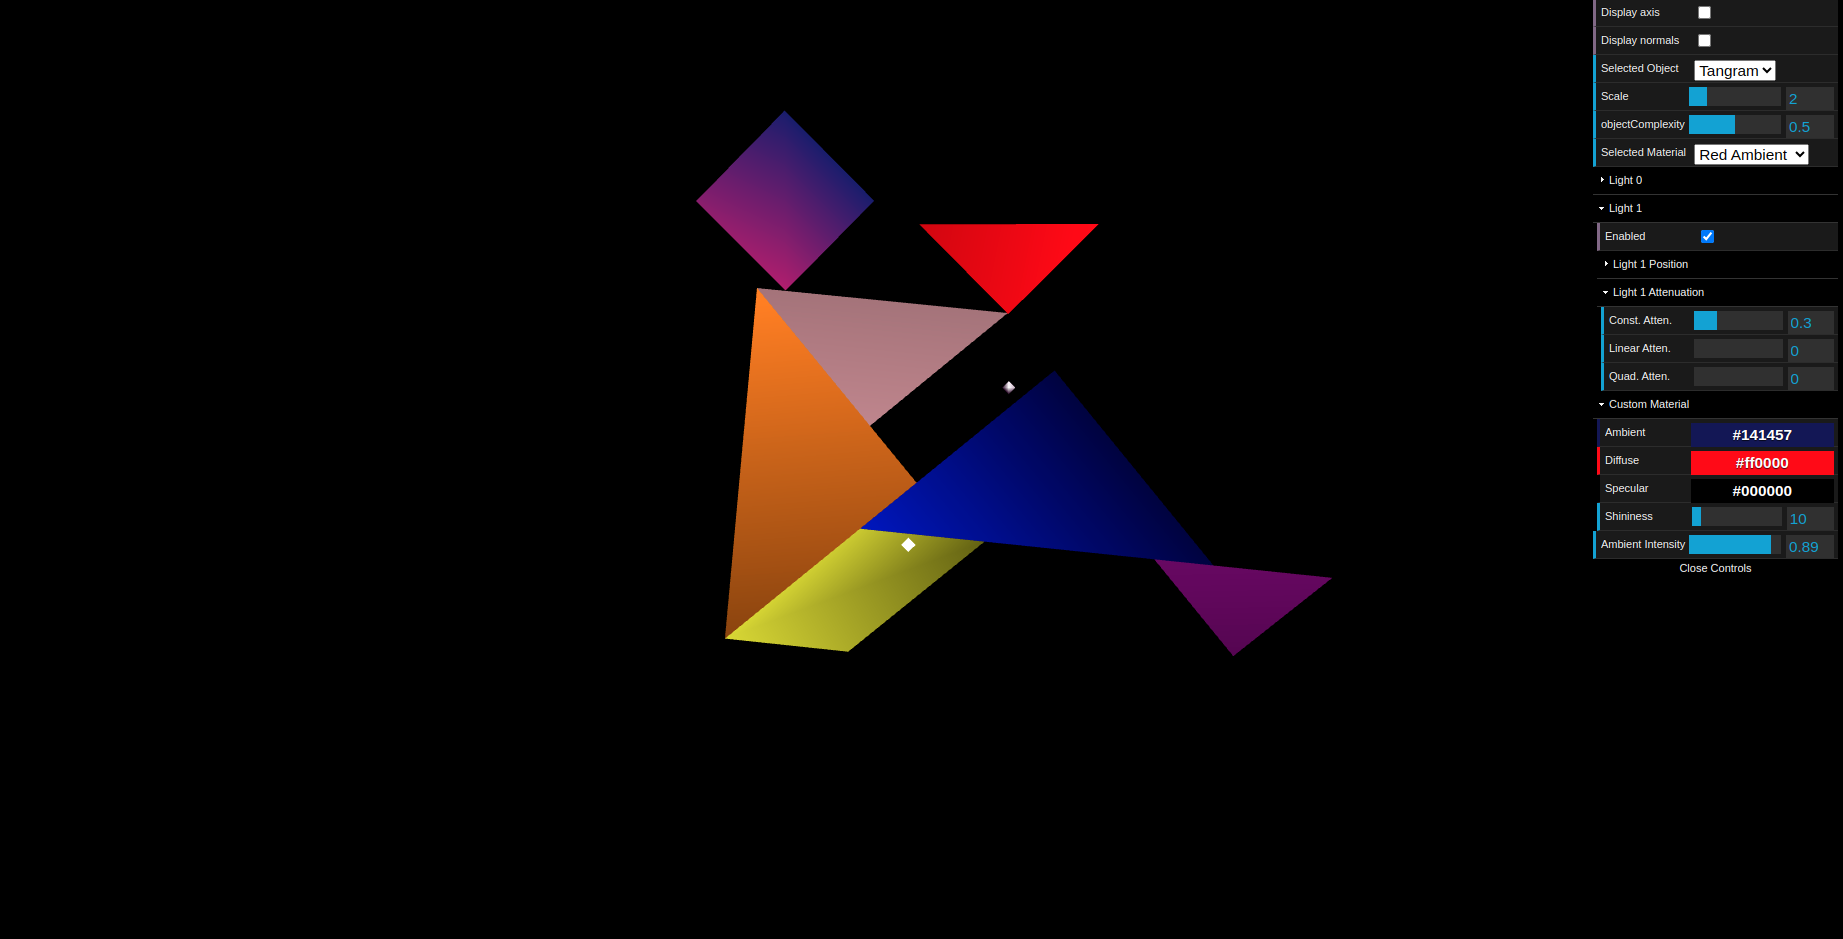
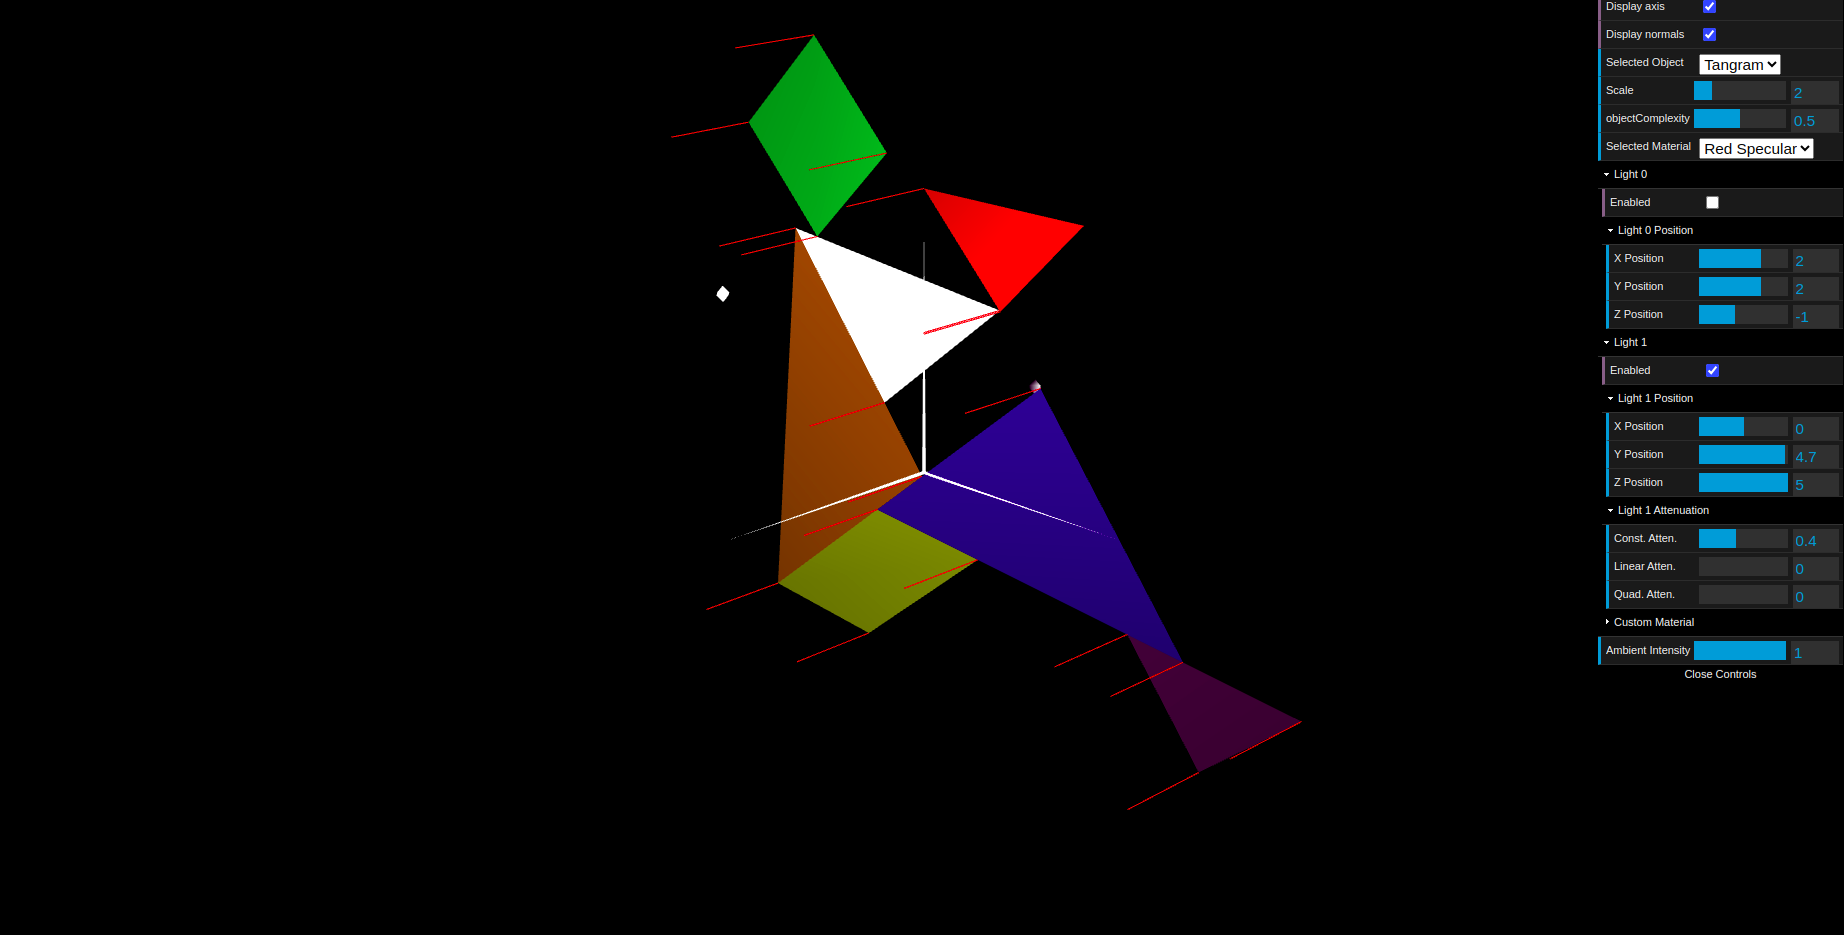
Correction in TP3: added normals to Tangram.

Changed region(s): [[0.3711, 0.031, 0.7113, 0.8374], [0.866, 0.0, 1.0, 0.7444]]

diff --git a/tp3/MyTangram.js b/tp3/MyTangram.js
@@ -81,7 +81,7 @@ export class MyTangram extends CGFobject {
             this.scene.pushMatrix();
             this.scene.multMatrix(translate);
             this.scene.customMaterial.apply();
-            // this.green.apply();
+            this.green.apply();
             this.diamond.display();
             this.scene.popMatrix();
 
@@ -133,5 +133,25 @@ export class MyTangram extends CGFobject {
             this.scene.popMatrix();
         }
         this.scene.popMatrix();
+    }
+
+    enableNormalViz() {
+        this.diamond.enableNormalViz();
+        this.parallelogram.enableNormalViz();
+        this.triangle.enableNormalViz();
+        this.triangleSmTop.enableNormalViz();
+        this.triangleSmBot.enableNormalViz();
+        this.triangleBigLft.enableNormalViz();
+        this.triangleBigRgt.enableNormalViz();
+    }
+
+    disableNormalViz() {
+        this.diamond.disableNormalViz();
+        this.parallelogram.disableNormalViz();
+        this.triangle.disableNormalViz();
+        this.triangleSmTop.disableNormalViz();
+        this.triangleSmBot.disableNormalViz();
+        this.triangleBigLft.disableNormalViz();
+        this.triangleBigRgt.disableNormalViz();
     }
 }

diff --git a/tp3/MyScene.js b/tp3/MyScene.js
@@ -196,6 +196,7 @@ export class MyScene extends CGFscene {
             Custom: 4,
         };
     }
+
     display() {
         // ---- BEGIN Background, camera and axis setup
         // Clear image and depth buffer everytime we update the scene
@@ -220,8 +221,7 @@ export class MyScene extends CGFscene {
         this.pushMatrix();
         this.scale(this.scaleFactor, this.scaleFactor, this.scaleFactor);
 
-        if (this.displayNormals)
-            this.objects[this.selectedObject].enableNormalViz();
+        if (this.displayNormals) this.objects[this.selectedObject].enableNormalViz();
         else this.objects[this.selectedObject].disableNormalViz();
 
         this.objects[this.selectedObject].display();

diff --git a/tp3/MyParallelogram.js b/tp3/MyParallelogram.js
@@ -27,6 +27,13 @@ export class MyParallelogram extends CGFobject {
             0, 3, 2
         ];
 
+        this.normals = [
+            0, 0, 1,
+            0, 0, 1,
+            0, 0, 1,
+            0, 0, 1
+        ];
+
         //The defined indices (and corresponding vertices)
         //will be read in groups of three to draw triangles
         this.primitiveType = this.scene.gl.TRIANGLES;

diff --git a/tp3/MyTriangleSmall.js b/tp3/MyTriangleSmall.js
@@ -23,6 +23,13 @@ export class MyTriangleSmall extends CGFobject {
             0, 1, 2
         ];
 
+        this.normals = [
+            0, 0, 1,
+            0, 0, 1,
+            0, 0, 1,
+            0, 0, 1
+        ];
+
         //The defined indices (and corresponding vertices)
         //will be read in groups of three to draw triangles
         this.primitiveType = this.scene.gl.TRIANGLES;

diff --git a/tp3/MyTriangleBig.js b/tp3/MyTriangleBig.js
@@ -23,6 +23,13 @@ export class MyTriangleBig extends CGFobject {
             0, 1, 2,
         ];
 
+        this.normals = [
+            0, 0, 1,
+            0, 0, 1,
+            0, 0, 1,
+            0, 0, 1
+        ];
+
         //The defined indices (and corresponding vertices)
         //will be read in groups of three to draw triangles
         this.primitiveType = this.scene.gl.TRIANGLES;

diff --git a/tp3/MyTriangle.js b/tp3/MyTriangle.js
@@ -23,6 +23,13 @@ export class MyTriangle extends CGFobject {
             1, 0, 2,
         ];
 
+        this.normals = [
+            0, 0, 1,
+            0, 0, 1,
+            0, 0, 1,
+            0, 0, 1
+        ];
+
         //The defined indices (and corresponding vertices)
         //will be read in groups of three to draw triangles
         this.primitiveType = this.scene.gl.TRIANGLES;

diff --git a/tp3/MyDiamond.js b/tp3/MyDiamond.js
@@ -25,6 +25,13 @@ export class MyDiamond extends CGFobject {
             1, 3, 2
         ];
 
+        this.normals = [
+            0, 0, 1,
+            0, 0, 1,
+            0, 0, 1,
+            0, 0, 1
+        ];
+
         //The defined indices (and corresponding vertices)
         //will be read in groups of three to draw triangles
         this.primitiveType = this.scene.gl.TRIANGLES;
